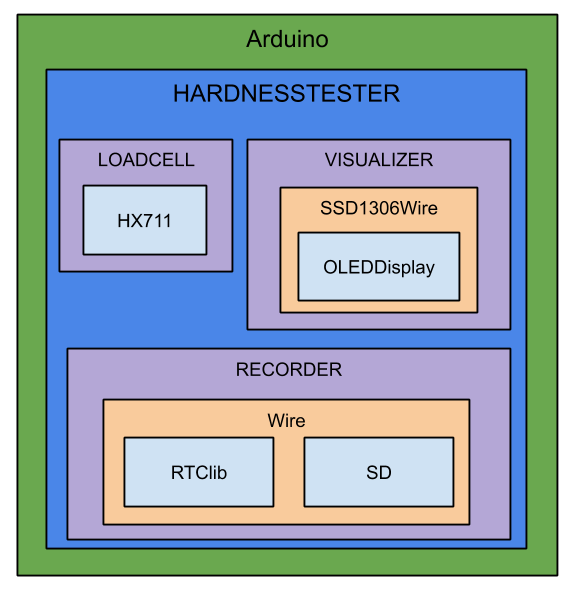
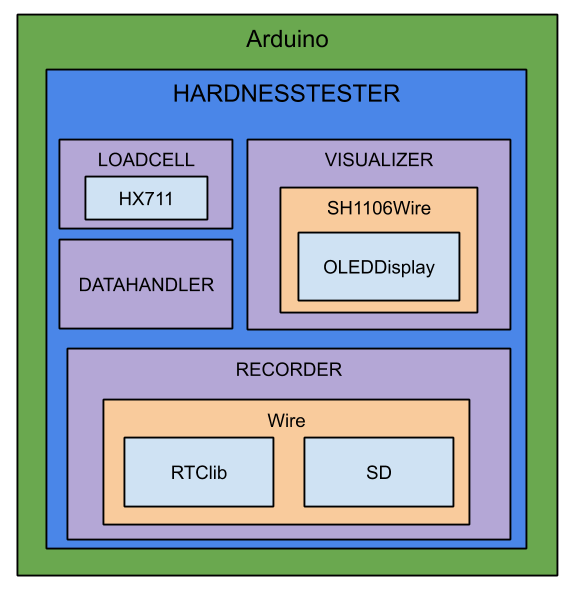
Se actualiza documentacion

Changed region(s): [[0.0938, 0.2705, 0.4062, 0.571], [0.5625, 0.3306, 0.7812, 0.3606]]

diff --git a/README.md b/README.md
@@ -23,27 +23,27 @@ Para poder programar la lógica del negocio asociados al proyecto, se crea una a
 
 Contiene toda la lógica relacionado con el sensor de fuerza 
 
-```void begin(const byte, const byte, const byte);```
+```void begin(const byte, const byte, const byte)```
 
 Inicializa la clase. Recibe los parámetros:
 -	Pin de entrada de datos [byte]
 -	Pin de salida de sincronizacion [byte]
 -	Ganancia pre seteada [byte]
 
-```long strength();```
+```long strength()```
 
 Devuelve el valor del sensor de fuerza.
 
-```long strengthAverage(int); ```
+```long strengthAverage(int) ```
 
 Devuelve un promedio de la fuerza medida por el sensor de fuerza. Recibe el parámetro:
 -	Cantidad de lecturas [int]
 
-```long raw();```
+```long raw()```
 
 Devuelve el valor de la señal del sensor (medicion cruda).
 
-``` void calibrate(long, int, int); ```
+``` void calibrate(long, int, int) ```
 
 Se utiliza para calcular el factor de calibración. Hay que tener en cuenta, que se debe conocer el peso real del equipo. 
 
@@ -66,28 +66,28 @@ La funcion muestra diferentes mensajes para de guiar al usuario.
 
 Contiene la logica para utiliza el driver SSD1306 para la visualización de datos
 
-```void begin(); ```
+```void begin() ```
 
 Inicializa la clase.
 
-```void showMessage(String); ```
+```void showMessage(String) ```
 
 Muestra un mensaje por pantalla. Recibe el parámetro:
 -	Mensaje a mostrar [String]
 
-```void showMeasure(String, String, bool); ```
+```void showMeasure(String, String, bool) ```
 
 Muestra el mensaje por pantalla, con el formato de la medición realizada. Recibe los parámetros:
 -	Valor de la medición [String]
 -	Unidad de la medición [String]
 -	Refrescar pantalla [bool]
 
-```void showImage(Images); ```
+```void showImage(Images) ```
 
 Muestra una imagen pre definida por pantalla. Recibe el parámetro:
 -	Codigo de la imagen pre cargada [Images]
 
-```void reset();```
+```void reset()```
 
 Limpia la panntalla.
 
@@ -95,22 +95,52 @@ Limpia la panntalla.
 
 Encapsula las librerias para el manejo del modulo SD y el RTC. Crear la logica para registrar datos en formato CSV. Por defecto, crea dos columnas bajo los titulos "fecha" y "hora".
 
-```void begin(const int);```
+```void begin(const int)```
 
 Inicializa la clase. Recibe los parámetros:
 -	Pin de entrada [int]
 
-```bool setTitles(int numb, ...);```
+```bool setTitles(int numb, ...)```
 
 Configura los titulos que se utilizaran en las columnas del CSV. Recibe el parámetro:
 -	Cantidad de titulos, despues de los *por defecto* [int]
 -   Titulos de cada columna, separados por coma [String]
 
-```bool saveRegistry(int numb, ...);```
+```bool saveRegistry(int numb, ...)```
 
 Escribe los valores que en una columan del CSV. Recibe el parámetro:
 -	Cantidad de datos, despues de los *por defecto* [int]
 -   Datos separados por coma [String]
+
+### Clase: **Data Handler**
+
+Moduliza el procesamiento de datos.
+
+```void begin(const int reserved)```
+
+Inicializa la clase.
+
+```void preLoad(float sampling)```
+
+Carga una lista con los datos que sean procesador. Recibe el parámetro:
+-	Muestras (mediciones realizadas) [float]
+
+```float average()```
+
+Devuelve el promedio de los datos pre cargados.
+
+```float maximum()```
+
+Devuelve el maximo de los datos pre cargados.
+
+```float minimum()```
+
+Devuelve el minimo de los datos pre cargados.
+
+
+```void reset()```
+
+Limpia los datos cargados.
 
 ## Implementacion
 
